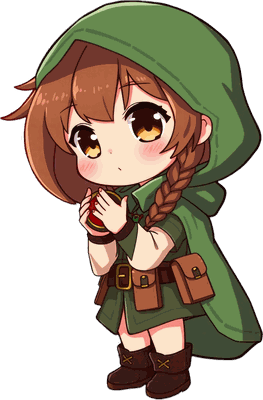
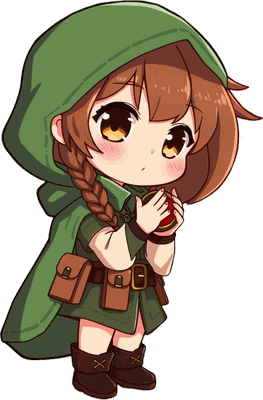
v0.87.0: 「翠緑の薬導士」の向きを直し、頭を小さくする
★ 向き
v0.86.0 で左右を反転させたのは間違いだった。v0.59.0 の絵は
そのままで右を向いていた。反転を取り消し、flip の設定も
player:4 を戻した(当時と同じ扱いに揃う)。

顔の向きは輪郭や小物では判断を誤る。頭を4倍に拡大して、
鼻と顎がどちらを指しているかで確かめた。

★ 頭の大きさ
表示倍率を 1.13 → 0.92 にした。両目の幅は36.0%と平均どおりだが、
深いフードのぶん髪込みの頭が242pxと飛び抜けて大きく(他は174〜199px)、
同じ高さで並べると頭でっかちに見えていた。

倍率は全身にかかるので、そのぶん背は低くなる。1.13 / 1.00 / 0.92 /
0.85 を並べて見比べ、頭が紫紺と釣り合う 0.92 を採った。

測定値のコメントも今の数字に直した(作り直しで値が動いていた)。

diff --git a/shared/characters.ts b/shared/characters.ts
@@ -40,8 +40,11 @@ export const CHAR_CHANGE_COST = 200;
 //   ±8%までに抑え、頭を揃えきるより背丈の自然さを優先する。
 //   帽子や髭のある子は測定値そのものが当てにならない(紫紺は測ると1.37倍
 //   必要と出るが、そのとおりにすると1人だけ見上げるほど大きくなる)。
-// 測定値(両目の幅 / 全身の高さ): 35.5% / 43.2% / 26.5% / 39.8% / 27.5% / 43.5%(平均 36.0%)
-// 黒金・翠緑・白銀・蒼氷は測定値より大きめ(指定で1.2倍)。並べた時の見栄えを優先している。
+// 測定値(両目の幅 / 全身の高さ): 35.5% / 43.2% / 32.0% / 36.0% / 27.5% / 43.5%(平均 36.3%)
+// 黒金・白銀・蒼氷は測定値より大きめ(指定で1.2倍)。並べた時の見栄えを優先している。
+// 翠緑だけは逆に小さくしてある。深いフードのぶん髪込みの頭が242pxと
+// 飛び抜けて大きく(他は174〜199px)、同じ高さで並べると頭でっかちに見えるため。
+// 倍率は全身にかかるので、そのぶん背は低くなる。
 // 特に白銀と蒼氷は両目の幅が最大(43.2% / 43.5%)なので、大きくすると頭の大きさも
 // 目立つ。それでも小さく見える方が気になるという判断で、揃えるより見栄えを取った。
 export const CHARACTERS: CharacterDef[] = [
@@ -52,7 +55,7 @@ export const CHARACTERS: CharacterDef[] = [
   { id: 2, name: '紅蓮の戦導士', note: '炎を纏い、前へ出て杖を振るう',
     element: 'fire', scale: 1.10 },
   { id: 3, name: '翠緑の薬導士', note: '水を扱い、調合と薬に通じた癒し手',
-    element: 'water', scale: 1.13 },
+    element: 'water', scale: 0.92 },
   { id: 4, name: '紫紺の導師', note: '大地を鎮める、古き術の大魔導士',
     element: 'earth', scale: 1.10 },
   { id: 5, name: '蒼氷の術士', note: '氷を結び、静けさの中で術を編む',

diff --git a/shared/version.ts b/shared/version.ts
@@ -4,6 +4,6 @@
 // BUILD_DATE は npm run build のたびに tools/stamp-version.mjs が
 // 実際の時刻(日本時間)で書き換えるので、手で触らないこと。
 
-export const VERSION = '0.86.0';
-export const BUILD_DATE = '2026-08-07 17:37';
+export const VERSION = '0.87.0';
+export const BUILD_DATE = '2026-08-07 17:43';
 export const COPYRIGHT = 'Copyright © 2026 YuriPapa';
